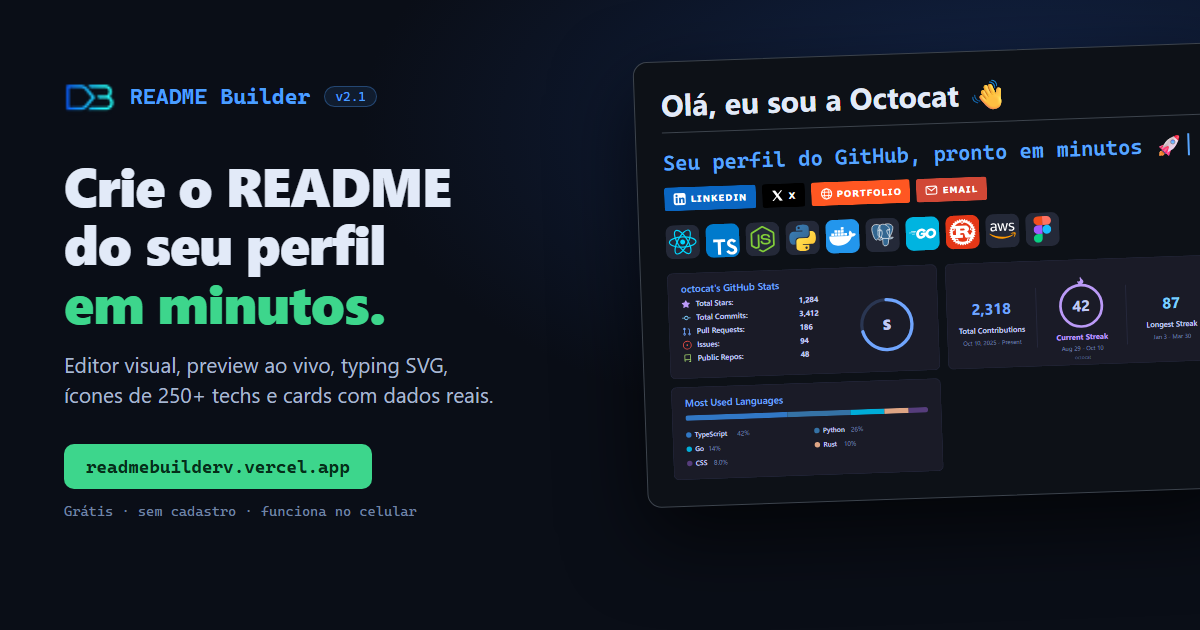
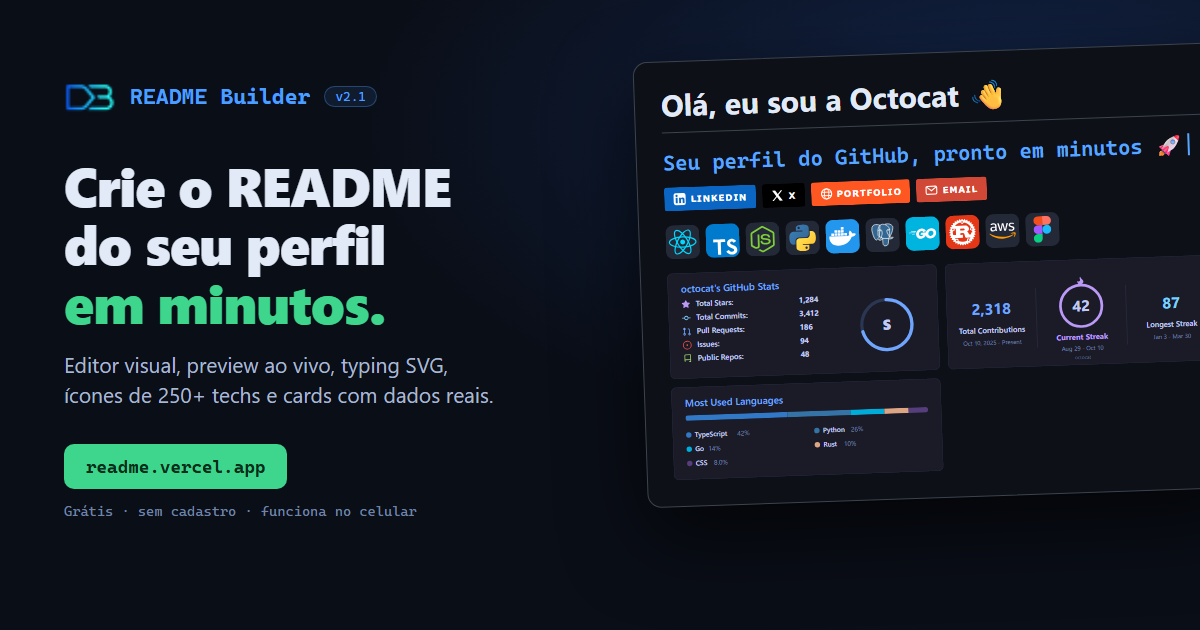
Vitrine: novo domínio readme.vercel.app

Changed region(s): [[0.1233, 0.6937, 0.3083, 0.7841]]

diff --git a/README.md b/README.md
@@ -1,21 +1,21 @@
 <div align="center">
 
-<a href="https://readmebuilderv.vercel.app">
+<a href="https://readme.vercel.app">
   <img src="assets/banner.png" width="100%" alt="README Builder — crie o README do seu perfil do GitHub em minutos" />
 </a>
 
 <br />
 <br />
 
-<a href="https://readmebuilderv.vercel.app">
-  <img src="https://readmebuilderv.vercel.app/api/typing.svg?text=Seu+perfil+do+GitHub%2C+pronto+em+minutos+%F0%9F%9A%80&text=Editor+visual+%E2%80%A2+preview+ao+vivo+%E2%80%A2+gr%C3%A1tis&color=58a6ff&speed=45&pause=1400&fontSize=24&width=640&height=56&align=center&font=jetbrains" alt="Seu perfil do GitHub, pronto em minutos" />
+<a href="https://readme.vercel.app">
+  <img src="https://readme.vercel.app/api/typing.svg?text=Seu+perfil+do+GitHub%2C+pronto+em+minutos+%F0%9F%9A%80&text=Editor+visual+%E2%80%A2+preview+ao+vivo+%E2%80%A2+gr%C3%A1tis&color=58a6ff&speed=45&pause=1400&fontSize=24&width=640&height=56&align=center&font=jetbrains" alt="Seu perfil do GitHub, pronto em minutos" />
 </a>
 
 <br />
 
-<a href="https://readmebuilderv.vercel.app"><img src="https://readmebuilderv.vercel.app/api/badge.svg?label=Abrir+o+README+Builder&labelColor=238636&messageColor=238636&style=for-the-badge&logo=website" alt="Abrir o README Builder" /></a>
-<img src="https://readmebuilderv.vercel.app/api/badge.svg?label=Gr%C3%A1tis&message=sem+cadastro&labelColor=30363d&messageColor=1f6feb&style=for-the-badge" alt="Grátis, sem cadastro" />
-<img src="https://readmebuilderv.vercel.app/api/badge.svg?label=Funciona+no&message=celular&labelColor=30363d&messageColor=8957e5&style=for-the-badge" alt="Funciona no celular" />
+<a href="https://readme.vercel.app"><img src="https://readme.vercel.app/api/badge.svg?label=Abrir+o+README+Builder&labelColor=238636&messageColor=238636&style=for-the-badge&logo=website" alt="Abrir o README Builder" /></a>
+<img src="https://readme.vercel.app/api/badge.svg?label=Gr%C3%A1tis&message=sem+cadastro&labelColor=30363d&messageColor=1f6feb&style=for-the-badge" alt="Grátis, sem cadastro" />
+<img src="https://readme.vercel.app/api/badge.svg?label=Funciona+no&message=celular&labelColor=30363d&messageColor=8957e5&style=for-the-badge" alt="Funciona no celular" />
 
 </div>
 
@@ -72,12 +72,12 @@ Estes cards são gerados pelo README Builder agora, com dados reais do GitHub:
 
 <div align="center">
 
-<img width="49%" src="https://readmebuilderv.vercel.app/api/github-stats.svg?username=Davibzf&theme=tokyonight" alt="GitHub stats" />
-<img width="49%" src="https://readmebuilderv.vercel.app/api/github-streak.svg?user=Davibzf&theme=tokyonight" alt="Contribution streak" />
+<img width="49%" src="https://readme.vercel.app/api/github-stats.svg?username=Davibzf&theme=tokyonight" alt="GitHub stats" />
+<img width="49%" src="https://readme.vercel.app/api/github-streak.svg?user=Davibzf&theme=tokyonight" alt="Contribution streak" />
 
-<img src="https://readmebuilderv.vercel.app/api/top-langs.svg?username=Davibzf&theme=tokyonight" alt="Top languages" />
+<img src="https://readme.vercel.app/api/top-langs.svg?username=Davibzf&theme=tokyonight" alt="Top languages" />
 
-<img src="https://readmebuilderv.vercel.app/api/trophies.svg?username=Davibzf&theme=tokyonight" alt="Trophies" />
+<img src="https://readme.vercel.app/api/trophies.svg?username=Davibzf&theme=tokyonight" alt="Trophies" />
 
 </div>
 
@@ -85,7 +85,7 @@ Estes cards são gerados pelo README Builder agora, com dados reais do GitHub:
 
 ## 🚀 Como usar
 
-1. Acesse **[readmebuilderv.vercel.app](https://readmebuilderv.vercel.app)**
+1. Acesse **[readme.vercel.app](https://readme.vercel.app)**
 2. Digite seu **username do GitHub** — seus dados são puxados automaticamente
 3. Escolha um template ou personalize: textos, ícones, cards, redes sociais
 4. Clique em **Download README.md** (ou copie o Markdown)
@@ -144,7 +144,7 @@ Sim. A interface se adapta a celulares, tablets e computadores, e o download do 
 - 14 card themes, templates, section ordering, PT/EN interface
 - Live preview in GitHub light/dark, one-click download of `README.md`
 
-👉 **[readmebuilderv.vercel.app](https://readmebuilderv.vercel.app)**
+👉 **[readme.vercel.app](https://readme.vercel.app)**
 
 </details>
 
